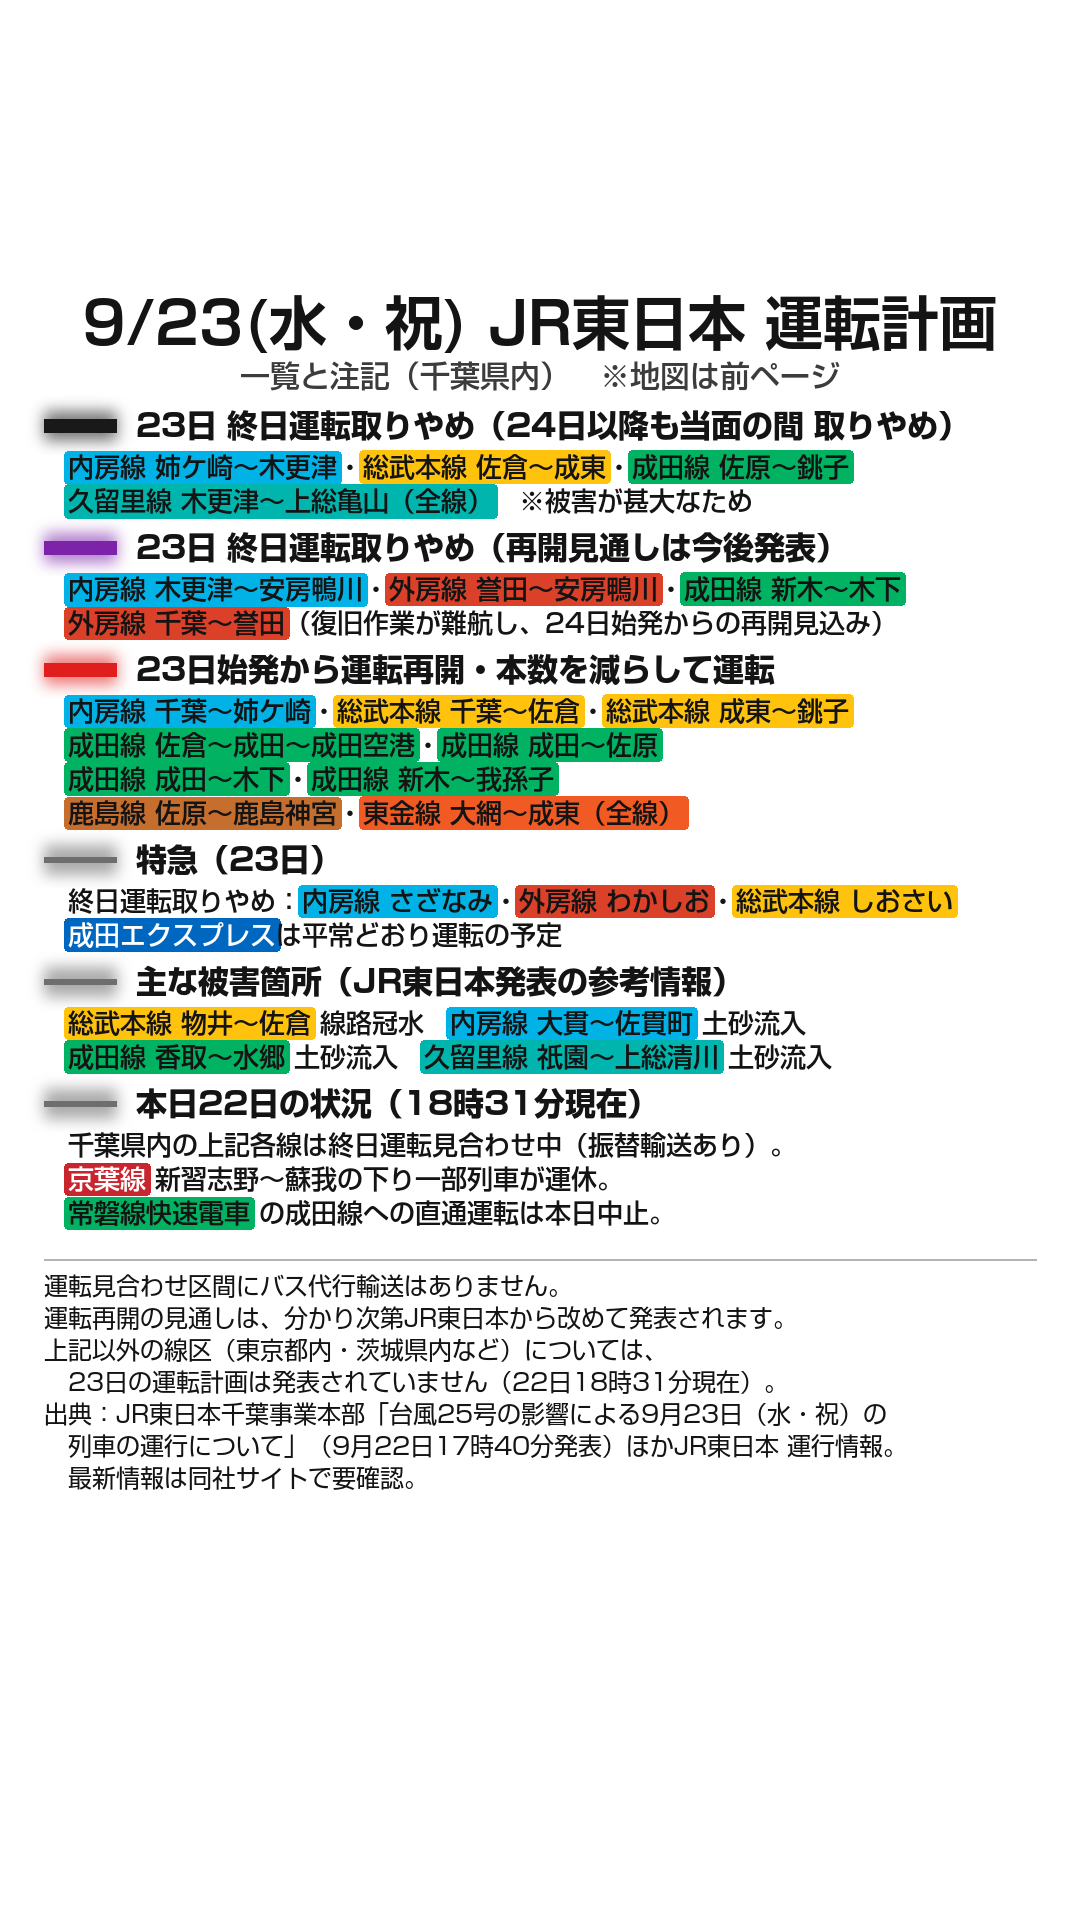
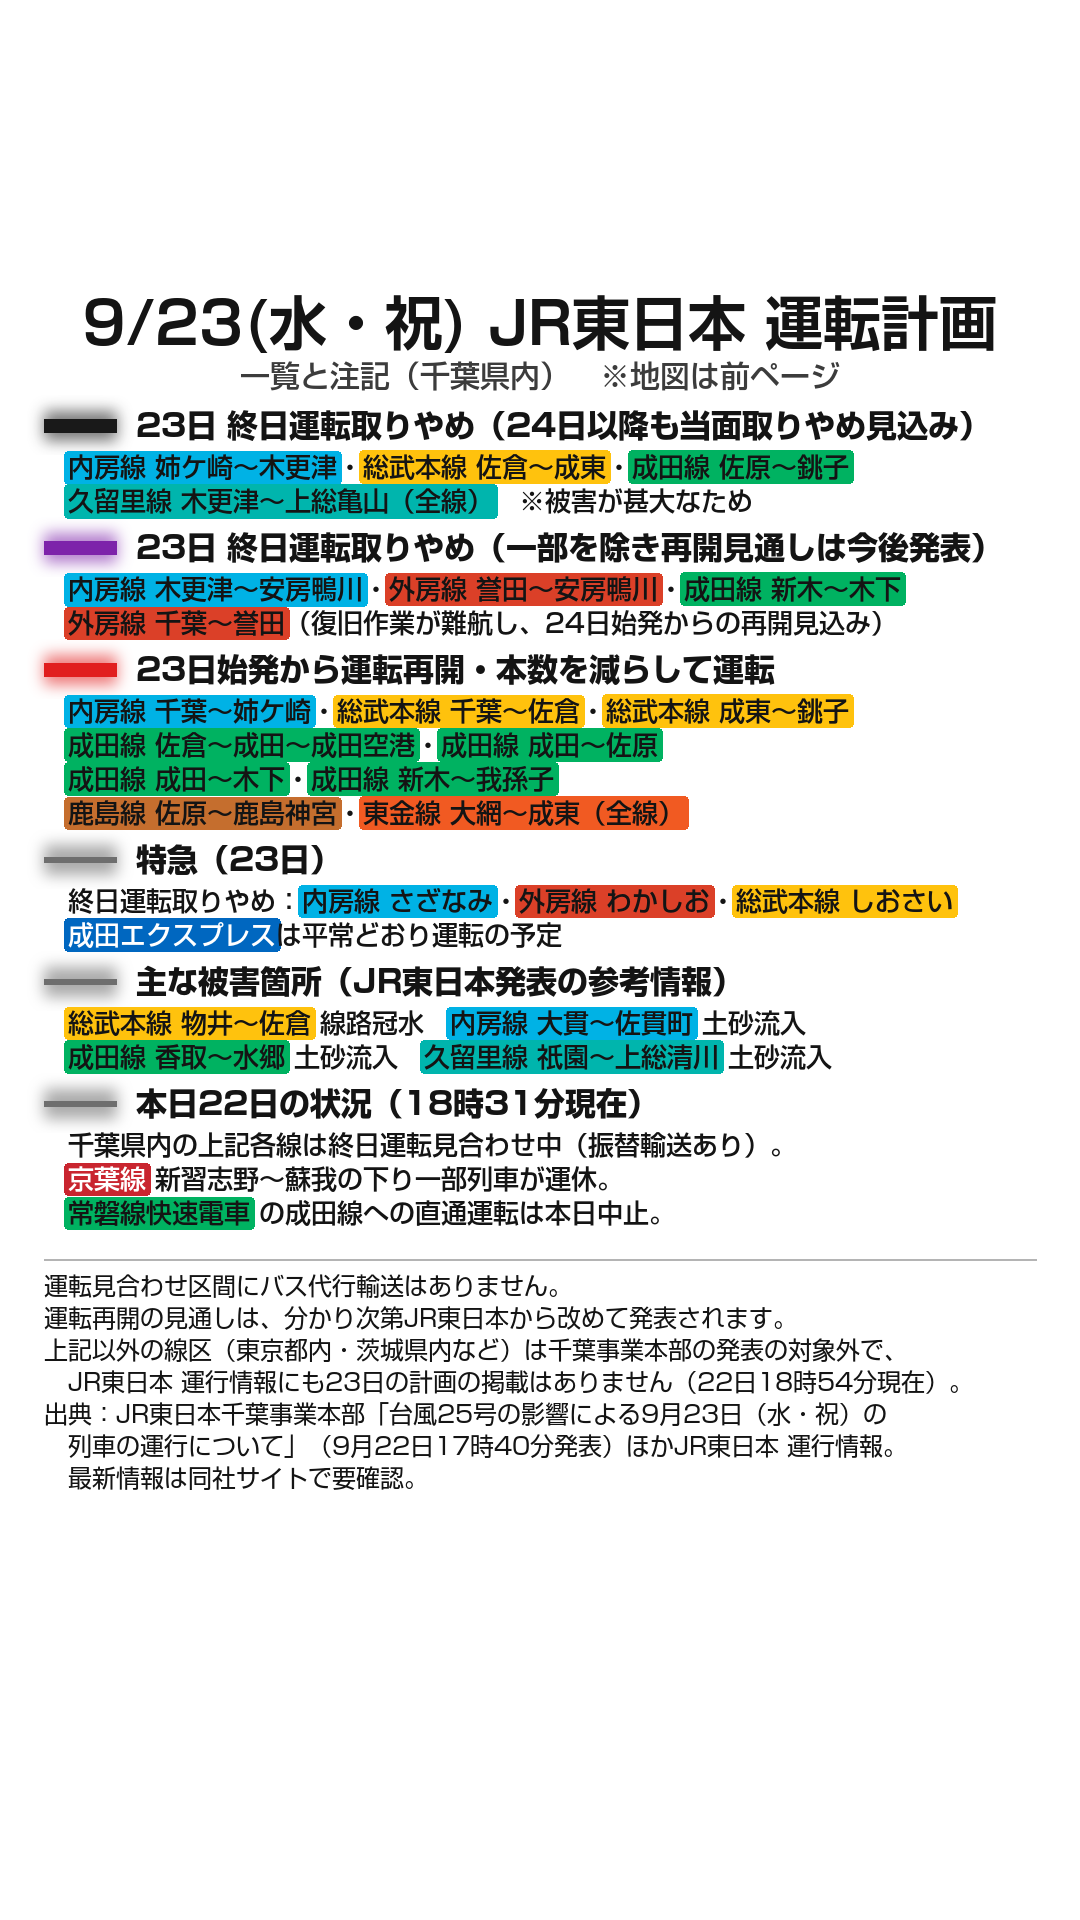
9/23 の地図・一覧を Codex の指摘に沿って修正
- 新木〜木下の紫区間が短く赤に埋もれるため、図中に文字の注記を追加
- 「24日以降も当面取りやめ」を発表どおり「見込み」に改める
- 対象外線区の注記を千葉事業本部の発表の範囲を示す表現に改める

diff --git a/scripts/render_map_20260923.py b/scripts/render_map_20260923.py
@@ -182,6 +182,9 @@ for sev,col,w,pts in segs:
 
 tx,ty = raw_pts(['取手'])[0]
 halo_text(lay, (tx+40, MAP_TOP+34), '↑水戸方面', F('Medium',24), 'lm', (30,30,30), pad=4)
+# 新木〜木下（約5 km）は紫の区間が短く、両側の赤に埋もれて見えにくいため文字で補う
+f_note = F('Medium',22); NOTE_XY = (462, 536); NOTE_TXT = '新木〜木下は取りやめ'
+halo_text(lay, NOTE_XY, NOTE_TXT, f_note, 'lt', PURPLE, pad=4)
 
 f_lab=F('Medium',30); f_labB=F('Bold',32)
 for n,(anc,dx,dy,em) in LB.items():
@@ -216,7 +219,7 @@ def item(sw, lines):
     for i,t in enumerate(lines):
         ld.text((x0+74,y+(0 if i==0 else 4+i*28)),t,font=f_leg if i else f_legB,fill=(20,20,20),anchor='lm')
     y+= 28*len(lines)+12
-item('black',['終日運転取りやめ','（被害甚大。24日以降も','　当面の間 取りやめ）'])
+item('black',['終日運転取りやめ','（被害甚大。24日以降も','　当面取りやめ見込み）'])
 item('purple',['終日運転取りやめ','（再開の見通しは未定）'])
 item('red',['本数を減らして運転','（23日始発から運転再開）'])
 item('thin',['細線：計画の発表なし','（路線カラー）'])
@@ -249,6 +252,7 @@ boxes=[]
 for n,(anc,dx,dy,em) in LB.items():
     x,y0=P(*S(n)); f=f_labB if em else f_lab
     bb=f.getbbox(n, anchor=anc); boxes.append((n,(x+dx+bb[0]-5,y0+dy+bb[1]-5,x+dx+bb[2]+5,y0+dy+bb[3]+5)))
+nb = f_note.getbbox(NOTE_TXT, anchor='lt'); boxes.append(('注記', (NOTE_XY[0]+nb[0]-5, NOTE_XY[1]+nb[1]-5, NOTE_XY[0]+nb[2]+5, NOTE_XY[1]+nb[3]+5)))
 def ov_(a,b): return not (a[2]<b[0] or b[2]<a[0] or a[3]<b[1] or b[3]<a[1])
 probs=[(a,b) for i,(a,ba) in enumerate(boxes) for b,bb in boxes[i+1:] if ov_(ba,bb)]
 probs+=[(n,'凡例') for n,bb in boxes if ov_(bb,(LX0,LY0,LX1,LY1))]

diff --git a/scripts/render_list_20260923.py b/scripts/render_list_20260923.py
@@ -69,11 +69,11 @@ def rich(x, y, text, font):
     return x
 
 SECTIONS = [
- (BLACK, '23日 終日運転取りやめ（24日以降も当面の間 取りやめ）', [
+ (BLACK, '23日 終日運転取りやめ（24日以降も当面取りやめ見込み）', [
    '【内房線 姉ケ崎〜木更津】・【総武本線 佐倉〜成東】・【成田線 佐原〜銚子】',
    '【久留里線 木更津〜上総亀山（全線）】　※被害が甚大なため',
  ]),
- (PURPLE, '23日 終日運転取りやめ（再開見通しは今後発表）', [
+ (PURPLE, '23日 終日運転取りやめ（一部を除き再開見通しは今後発表）', [
    '【内房線 木更津〜安房鴨川】・【外房線 誉田〜安房鴨川】・【成田線 新木〜木下】',
    '【外房線 千葉〜誉田】（復旧作業が難航し、24日始発からの再開見込み）',
  ]),
@@ -100,8 +100,8 @@ SECTIONS = [
 NOTES = [
  '運転見合わせ区間にバス代行輸送はありません。',
  '運転再開の見通しは、分かり次第JR東日本から改めて発表されます。',
- '上記以外の線区（東京都内・茨城県内など）については、',
- '　23日の運転計画は発表されていません（22日18時31分現在）。',
+ '上記以外の線区（東京都内・茨城県内など）は千葉事業本部の発表の対象外で、',
+ '　JR東日本 運行情報にも23日の計画の掲載はありません（22日18時54分現在）。',
  '出典：JR東日本千葉事業本部「台風25号の影響による9月23日（水・祝）の',
  '　列車の運行について」（9月22日17時40分発表）ほかJR東日本 運行情報。',
  '　最新情報は同社サイトで要確認。',
